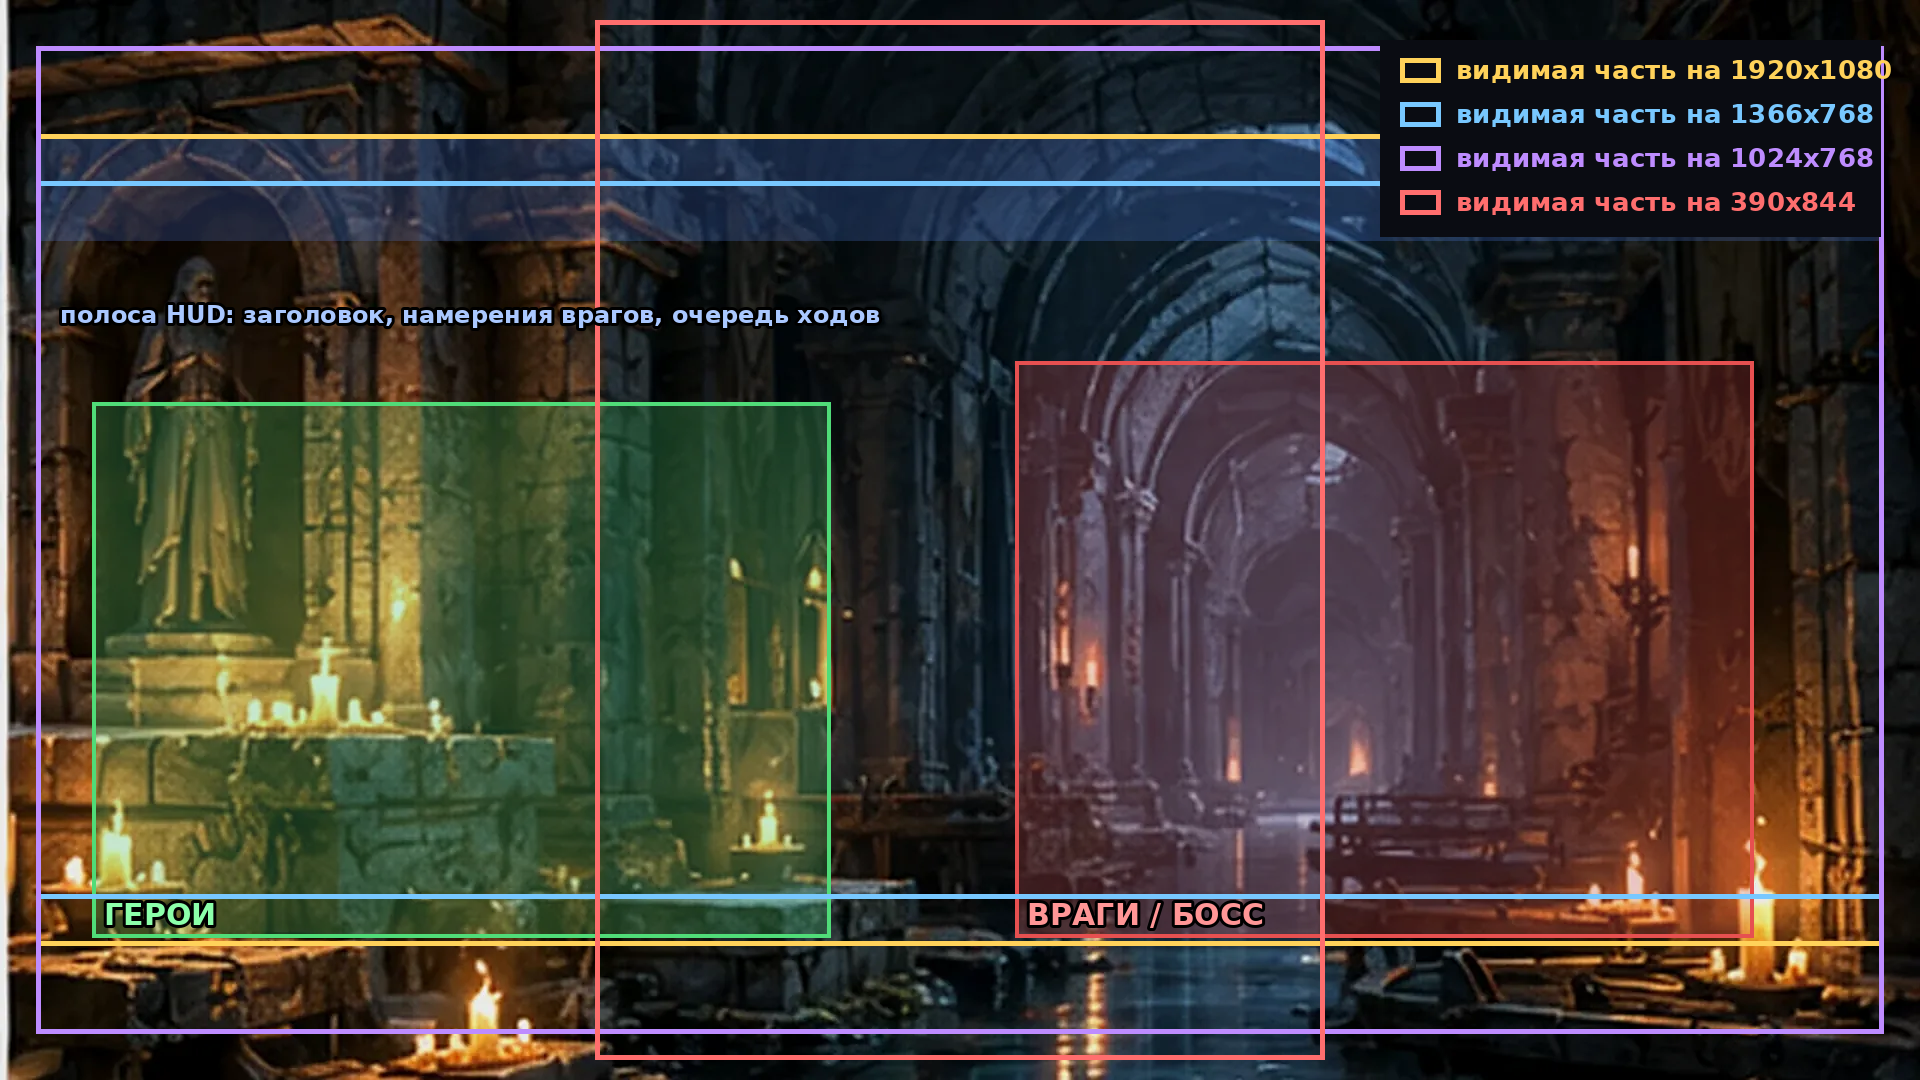
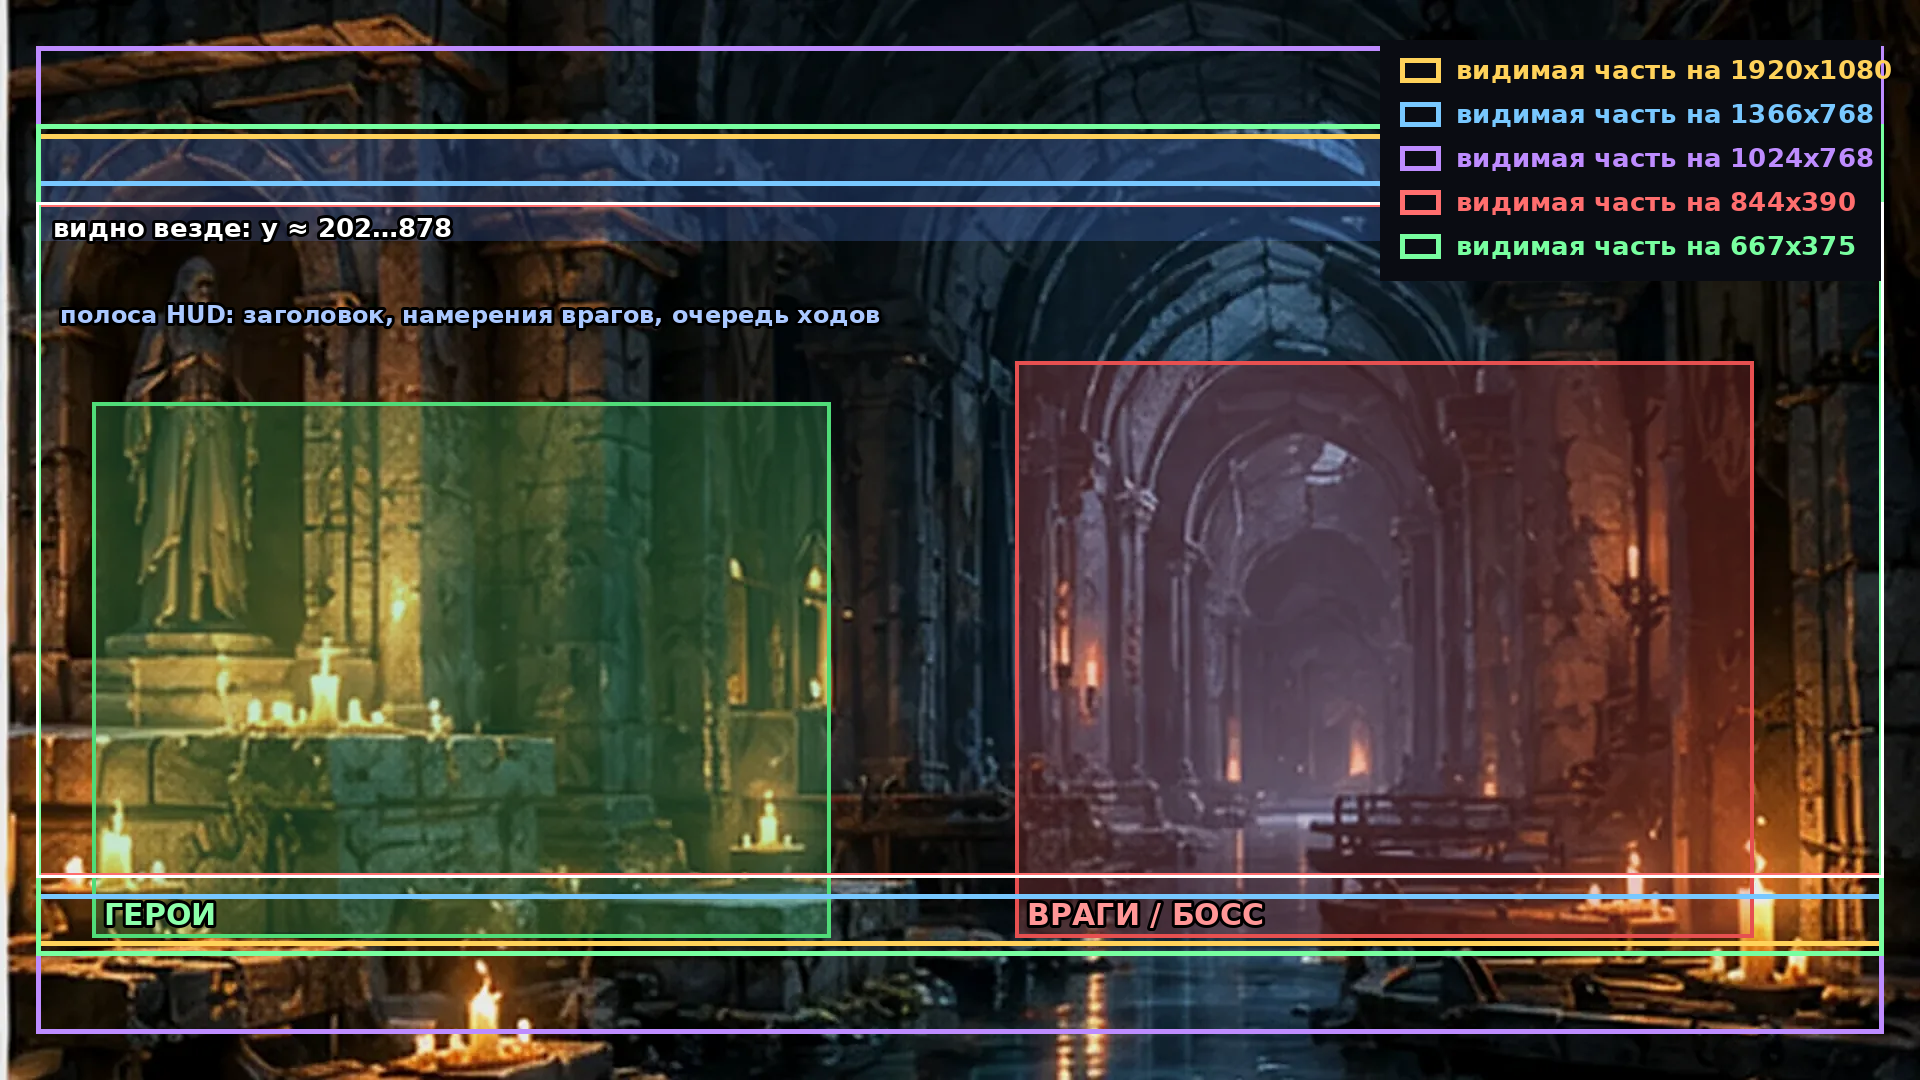
ТЗ 2.1: только альбомная ориентация (#13)
- Композиция арены: видна вся ширина фона, общая безопасная полоса y ≈ 200…880, пол сплошной полосой.
- ref_01/ref_02 пересняты на 1920×1080, 1366×768, 1024×768, 844×390, 667×375.
- Приёмка на альбомных разрешениях; layout-probe — альбомный набор по умолчанию (VIEWPORTS).

Claude-Session: https://claude.ai/code/session_01JHTg4D6gbw6rQ9tqKspPLi

diff --git a/docs/ARTIST_BRIEF_RU.md b/docs/ARTIST_BRIEF_RU.md
@@ -1,8 +1,10 @@
-# «Гильдия Теней» — ТЗ художнику, версия 2.0 (наборы поз)
+# «Гильдия Теней» — ТЗ художнику, версия 2.1 (наборы поз)
 
 Что нарисовать, в каком виде сдать и как проверить себя. Движок уже готов: финальный арт подключается файлами и записью в реестре `public/art/v17/art-pack.json`, код менять не нужно.
 
 **Главное изменение по сравнению с 1.x.** Персонажи больше **не анимируются скелетом**. Каждый персонаж — это **набор поз**: 5–8 цельных иллюстраций (стойка, замах, удар, урон, падение…). Игра мгновенно переключает их по фазам действия, а движение, вес удара и драматургию даёт сама: сдвиг к цели, стоп-кадр в момент попадания, наезд камеры, след клинка, вспышки и частицы. Так устроен бой в Darkest Dungeon.
+
+**Ориентация экрана (2.1).** Игра поддерживает **только альбомную ориентацию** — на компьютере и на телефоне, повёрнутом горизонтально. Позы персонажей это не меняет; меняются правила композиции арены (§6).
 
 Почему так: пилоты Брана v0.4–v0.5 на DragonBones и 3D-модели заказчик не принял — без живого аниматора нарезка выглядит «бумажной куклой», а сгенерированные 3D-модели — грубо. Цельная поза сохраняет качество концептов, которые нравятся заказчику.
 
@@ -14,8 +16,8 @@
 | `ref_03_cast_scale.png` | Рост персонажей относительно друг друга и линия пола |
 | `ref_06_strike_storyboard.png` | Как позы сменяются в бою: удар Брана по кадрам 1/30 с, со стоп-кадром |
 | `ref_07_pose_sheet_format.png` | Как оформить лист согласованности (формат; сами позы там временные и показывают, **как не надо**) |
-| `ref_01_arena_safe_zones.png` | Что видно от фона арены на каждом разрешении, зоны бойцов, полоса интерфейса |
-| `ref_02_battle_viewports.png` | Настоящие скриншоты боя на 1920×1080, 1366×768, 1024×768, 390×844 |
+| `ref_01_arena_safe_zones.png` | Что видно от фона арены на каждом альбомном разрешении, общая безопасная полоса, зоны бойцов |
+| `ref_02_battle_viewports.png` | Настоящие скриншоты боя на 1920×1080, 1366×768, 1024×768, 844×390, 667×375 (телефон горизонтально) |
 | `ref_04_portrait_sizes.png` | Портреты на 48/64/96/128 px — так их видит игрок |
 
 Рабочий пример набора поз: `qa-fixtures/pose-demo/` (открыть в игре: `http://localhost:5173/?qa=1&artpack=/qa-fixtures/pose-demo/art-pack.json`).
@@ -244,7 +246,7 @@
 
 ### 3.6. Что делает позу хорошей
 
-- Позу понятно по **силуэту одним цветом на высоте 120 px** (так фигура видна на телефоне).
+- Позу понятно по **силуэту одним цветом на высоте 120 px** (так фигура видна на телефоне, повёрнутом горизонтально).
 - Явная линия действия и перенос веса.
 - Соседние позы контрастны: `windup` ↔ `strike` — противоположные точки; `hit` — резко назад; `prepare` — угроза.
 - Утрированность в духе концептов: удар — крайний, эмоция — читаемая.
@@ -367,7 +369,7 @@ python3 tools/art/build_poses.py art-sources/poses/bran public/art/v17/poses/bra
 
 ## 5. Бюджеты и технические ограничения
 
-Игра грузится в браузере на Яндекс Играх; основная аудитория — телефоны.
+Игра грузится в браузере на Яндекс Играх; основная аудитория — телефоны, повёрнутые горизонтально (только альбомная ориентация).
 
 | Что | Предел | Рекомендация |
 |---|---|---|
@@ -395,16 +397,17 @@ python3 tools/art/build_poses.py art-sources/poses/bran public/art/v17/poses/bra
 | `front` | да | 1,3–1,8 | передний план **только по краям**, не глубже 60 px в зоны бойцов |
 
 **Композиция** (`ref_01`):
-- На телефоне видна только центральная полоса x ≈ 600…1320 — главный «якорь» композиции там.
-- На 1366×768 надёжно видна полоса y ≈ 180…900.
-- Зоны бойцов (героев x ≈ 95…830, врагов x ≈ 1015…1755, y ≈ 360…935) — без контрастных деталей и ярких огней. Свечи — между зонами и по краям.
+- Ориентация только альбомная: **вся ширина фона видна** на любом экране (x ≈ 40…1880), обрезается только верх и низ.
+- Надёжно видна на всех разрешениях полоса **y ≈ 200…880**: на телефоне 19,5:9 (844×390) остаётся только она. Главный «якорь» композиции — в ней, ничего важного выше y = 200 и ниже y = 880.
+- Бойцы стоят на разной высоте фона в зависимости от пропорций экрана, поэтому пол — **сплошная полоса** примерно от y = 700 до низа кадра, без ступеней, порогов и ярких пятен, на которые «должны» попасть ступни.
+- Зоны бойцов (на 1920×1080: героев x ≈ 95…830, врагов x ≈ 1015…1755, y ≈ 360…935; на других пропорциях они смещаются по вертикали) — без контрастных деталей и ярких огней. Свечи — между зонами и по краям.
 - Верх (y < 300) закрыт интерфейсом — спокойный тёмный свод.
-- Линия пола одинакова на обеих аренах (около y = 900–940).
+- Линия пола одинакова на обеих аренах: на 1920×1080 ступни около y = 900–940, на телефоне — выше, внутри полосы y ≈ 200…880.
 - Пол — **только в слое `floor`**: повтор пола в `far` даёт «двойной пол» при движении камеры.
 
 **Катакомбы:** слои v0.5 из PR #5 по рецензии подходят как основа — разделение на слои и зоны правильные (окончательное решение — за заказчиком). Доработать: мастер 2560×1440 вместо увеличенного 1672×941, стыки перспективы `far`/`floor`, координаты свечей.
 
-**Тронный склеп:** темнее катакомб, трон или саркофаг в центральной полосе, холодный голубой контровой свет (во II фазе игра его усиливает).
+**Тронный склеп:** темнее катакомб, трон или саркофаг в центре кадра (x ≈ 760…1160, в полосе y ≈ 200…880), холодный голубой контровой свет (во II фазе игра его усиливает).
 
 Свечи и жаровни перечислите в `lights.txt` (центры в пикселях 1920×1080) — разработчик поставит туда живые огоньки.
 
@@ -477,11 +480,11 @@ node tools/qa/action-strip.mjs "http://127.0.0.1:5173/?qa=1" qa-saves/battle.jso
 
 1. Лист согласованности утверждён заказчиком: канонический облик во всех позах (§3.2, §3.4).
 2. `validate_pack.mjs --strict` — без ошибок.
-3. В игре на **1920×1080, 1366×768, 1024×768 и 390×844**:
+3. В игре на **1920×1080, 1366×768, 1024×768, 844×390 и 667×375** (только альбомная ориентация):
    - при смене поз фигура не подпрыгивает;
    - на раскадровке замах и удар читаются, удар совпадает со вспышкой и цифрой урона;
    - павший не заходит на соседа;
-   - на телефоне позы читаются силуэтом;
+   - на телефоне (844×390, 667×375) позы читаются силуэтом;
    - передний план арены не закрывает бойцов и плашки HP; смена фазы короля заметна.
 4. Портрет различим на 48 px и совпадает с позами.
 5. Нет запрещённой символики (§1).
